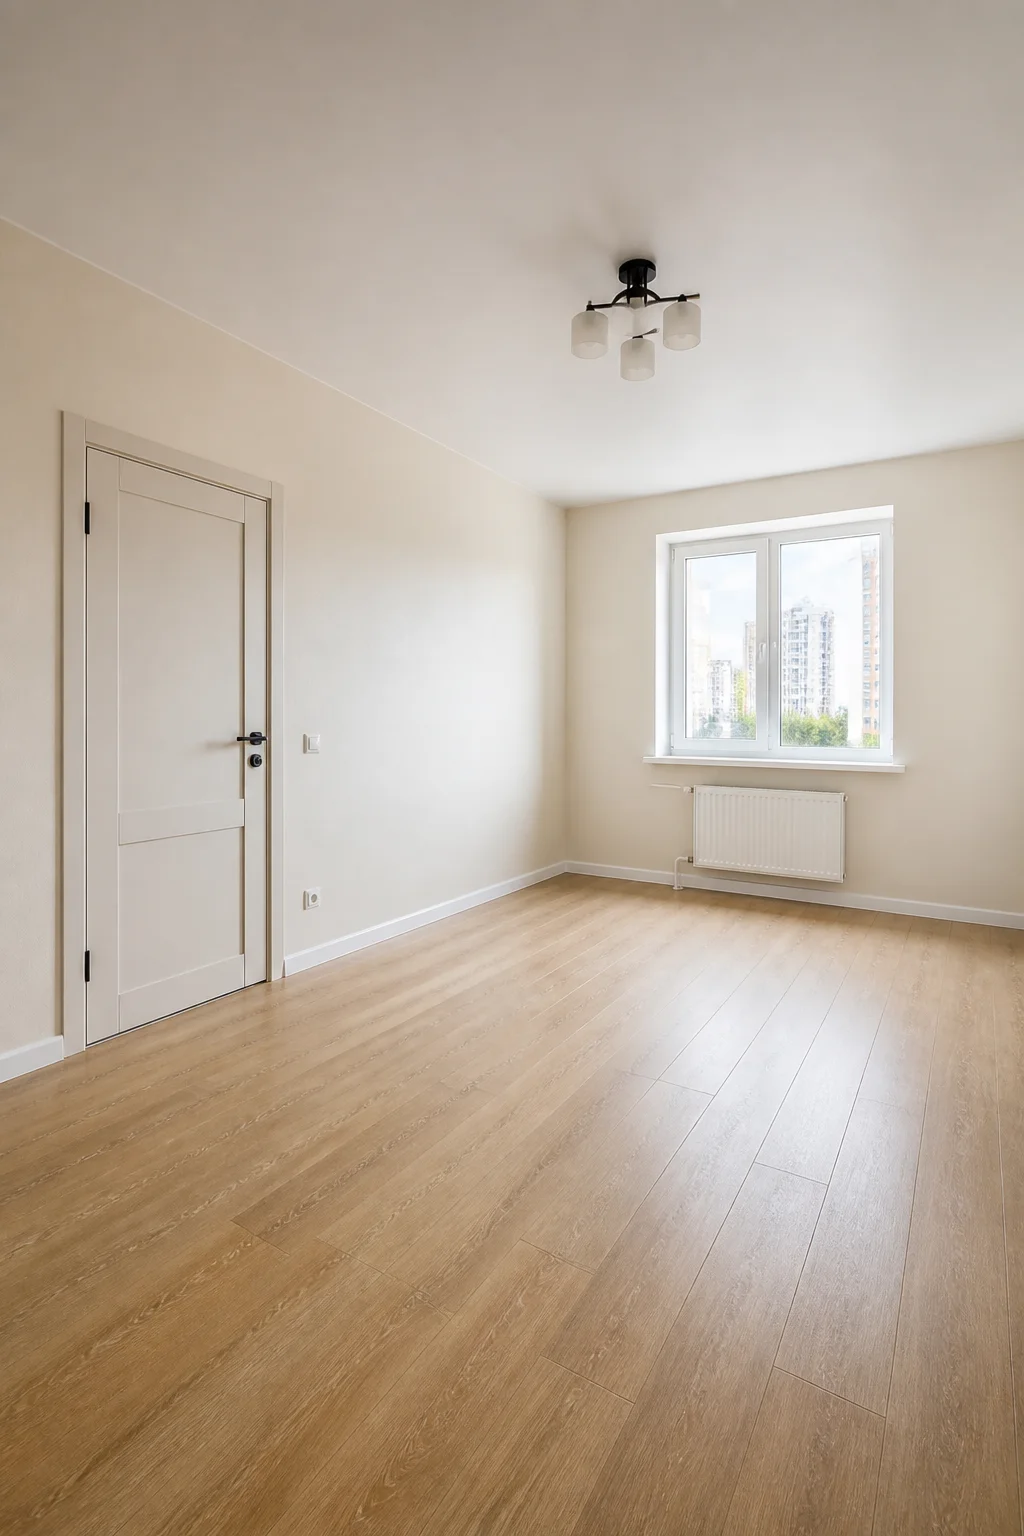
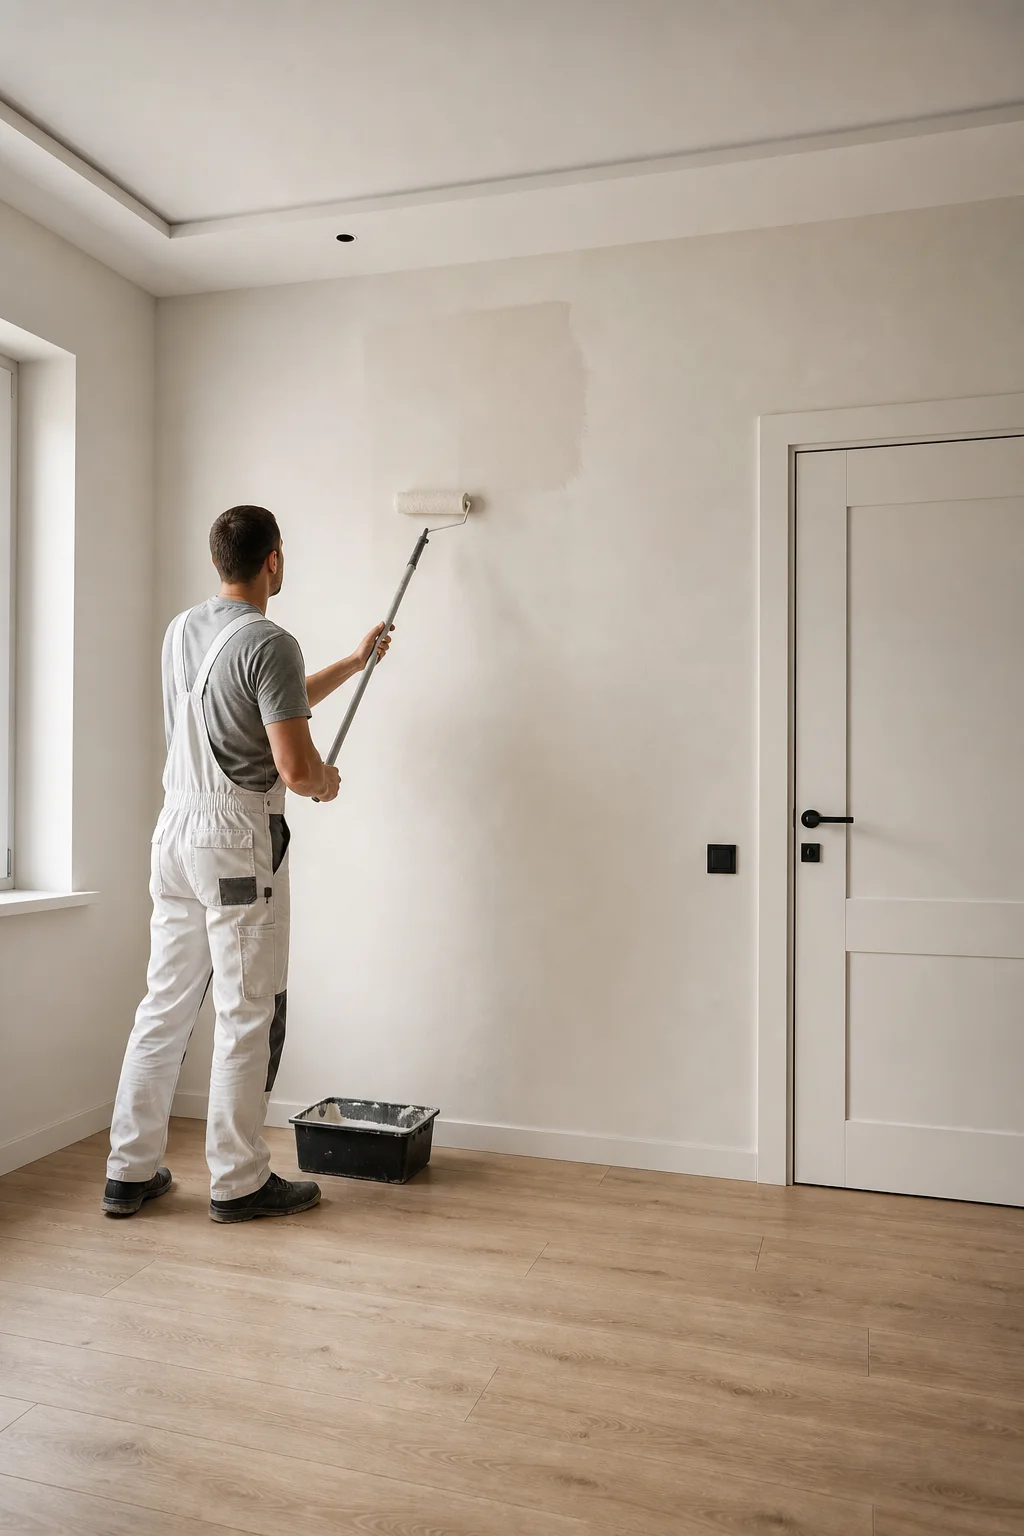
Polish v26 tariff copy and renovation visuals

diff --git a/v26/index.html b/v26/index.html
@@ -46,7 +46,7 @@
     <link rel="preload" as="font" href="../assets/fonts/onest-cyrillic.woff2" type="font/woff2" crossorigin />
     <link rel="preload" as="font" href="../assets/fonts/onest-latin.woff2" type="font/woff2" crossorigin />
     <link rel="preload" as="image" href="../v14/assets/web/vk-hero.webp" type="image/webp" fetchpriority="high" />
-    <link rel="stylesheet" href="styles.css?v=20260724-26b" />
+    <link rel="stylesheet" href="styles.css?v=20260724-26c" />
     <script type="application/ld+json">
       {
         "@context": "https://schema.org",
@@ -204,7 +204,6 @@
         <div class="section-head">
           <div>
             <h2>Выбери, каким будет ремонт</h2>
-            <p>Во всех вариантах уже есть и работы, и материалы. Разница - в задаче и уровне комплектации.</p>
           </div>
         </div>
         <div class="tariff-grid tariff-grid--four">
@@ -212,18 +211,17 @@
             <span class="tariff-card__badge tariff-card__badge--cosmetic">Косметический</span>
             <figure class="tariff-card__visual">
               <img src="../assets/tariffs/finish-cosmetic.webp" alt="Квартира после косметического ремонта" width="1024" height="1536" loading="lazy" decoding="async" />
-              <span class="tariff-card__included">Работы<br />+ материалы</span>
-              <figcaption>Чистые стены, пол и свет</figcaption>
+              <span class="tariff-card__included"><small>В стоимость уже входят</small><strong>Работы + материалы</strong></span>
               <span class="photo-watermark" aria-hidden="true">ВЕРХ</span>
             </figure>
             <div class="tariff-card__body">
               <h3>Косметический</h3>
               <strong>от 6 000 ₽/м²</strong>
-              <p class="tariff-card__composition">Быстро привести квартиру в порядок</p>
+              <p class="tariff-card__composition">Хочешь освежить квартиру без большого ремонта.</p>
               <ul class="tariff-card__list">
-                <li>покраска, обои, пол и нужные работы;</li>
-                <li>материалы под согласованный объём;</li>
-                <li>смета и понятный план после осмотра.</li>
+                <li>Покрасим стены, обновим обои и пол.</li>
+                <li>Подберём материалы под твой объём.</li>
+                <li>После осмотра покажем точный состав и цену.</li>
               </ul>
               <button class="tariff-card__action" type="button" data-tariff-open="cosmetic">Рассчитать косметический</button>
             </div>
@@ -232,18 +230,17 @@
             <span class="tariff-card__badge tariff-card__badge--base">Под ключ</span>
             <figure class="tariff-card__visual">
               <img src="../assets/tariffs/finish-standard.webp" alt="Визуальный ориентир ремонта уровня Стандарт" width="1024" height="1536" loading="lazy" decoding="async" />
-              <span class="tariff-card__included">Работы<br />+ материалы</span>
-              <figcaption>Для заезда или сдачи</figcaption>
+              <span class="tariff-card__included"><small>В стоимость уже входят</small><strong>Работы + материалы</strong></span>
               <span class="photo-watermark" aria-hidden="true">ВЕРХ</span>
             </figure>
             <div class="tariff-card__body">
               <h3>Стандарт</h3>
               <strong>20 000 ₽/м²</strong>
-              <p class="tariff-card__composition">Готовый ремонт для заезда или сдачи</p>
+              <p class="tariff-card__composition">Сделаем квартиру готовой к заезду или сдаче.</p>
               <ul class="tariff-card__list">
-                <li>работы и материалы для ремонта под ключ;</li>
-                <li>подготовка, плитка, пол, стены, двери и потолки;</li>
-                <li>базовая сантехника и свет.</li>
+                <li>Соберём все работы и материалы под ключ.</li>
+                <li>Сделаем подготовку, плитку, пол, стены, двери и потолки.</li>
+                <li>Поставим базовую сантехнику и свет.</li>
               </ul>
               <button class="tariff-card__action" type="button" data-tariff-open="standard">Выбрать Стандарт</button>
             </div>
@@ -252,22 +249,20 @@
             <span class="tariff-card__badge tariff-card__badge--popular">Чаще выбирают</span>
             <figure class="tariff-card__visual">
               <img src="../assets/tariffs/finish-comfort-aircon.webp" alt="Ремонт уровня Комфорт с настенным кондиционером в готовой квартире" width="1007" height="1562" loading="lazy" decoding="async" />
-              <span class="tariff-card__included">Работы<br />+ материалы</span>
+              <span class="tariff-card__included"><small>В стоимость уже входят</small><strong>Работы + материалы</strong></span>
               <span class="tariff-card__promo" aria-label="Акция: кондиционер в подарок">
                 <strong>Кондиционер<br />в подарок</strong>
               </span>
-              <figcaption>Комфорт для жизни</figcaption>
               <span class="photo-watermark" aria-hidden="true">ВЕРХ</span>
             </figure>
             <div class="tariff-card__body">
               <h3>Комфорт</h3>
               <strong>25 000 ₽/м²</strong>
-              <p class="tariff-card__composition">Больше деталей для комфортной жизни</p>
+              <p class="tariff-card__composition">Соберём удобную квартиру для жизни.</p>
               <ul class="tariff-card__list">
-                <li>работы и материалы для ремонта под ключ;</li>
-                <li>крупноформатная плитка, ламинат 33 класса и моющиеся обои;</li>
-                <li>двери, сантехника, свет и карнизы;</li>
-                <li>дополнительная электрика, ниши и потолки.</li>
+                <li>Подберём материалы и выполним все работы под ключ.</li>
+                <li>Сделаем плитку, пол, стены, двери, сантехнику, свет и карнизы.</li>
+                <li>Добавим электрику, ниши и потолки для удобства.</li>
                 <li class="tariff-card__offer"><strong>Кондиционер в подарок</strong> при заказе ремонта от 50 м².</li>
               </ul>
               <button class="tariff-card__action" type="button" data-tariff-open="comfort">Выбрать Комфорт</button>
@@ -277,18 +272,17 @@
             <span class="tariff-card__badge tariff-card__badge--bonus">Дизайн в подарок</span>
             <figure class="tariff-card__visual">
               <img src="../assets/tariffs/finish-lux.webp" alt="Визуальный ориентир ремонта уровня Люкс" width="985" height="1597" loading="lazy" decoding="async" />
-              <span class="tariff-card__included">Работы<br />+ материалы</span>
-              <figcaption>Ремонт под твой проект</figcaption>
+              <span class="tariff-card__included"><small>В стоимость уже входят</small><strong>Работы + материалы</strong></span>
               <span class="photo-watermark" aria-hidden="true">ВЕРХ</span>
             </figure>
             <div class="tariff-card__body">
               <h3>Люкс</h3>
               <strong>от 29 000 ₽/м²</strong>
-              <p class="tariff-card__composition">Ремонт под твой проект и привычки</p>
+              <p class="tariff-card__composition">Сделаем ремонт под твой проект и привычки.</p>
               <ul class="tariff-card__list">
-                <li>работы и материалы по согласованному проекту;</li>
-                <li>комплектация под нужный тебе результат;</li>
-                <li>сложные узлы и световые сценарии.</li>
+                <li>Соберём работы и материалы по согласованному проекту.</li>
+                <li>Подберём комплектацию под твой результат.</li>
+                <li>Сделаем сложные узлы и световые сценарии.</li>
               </ul>
               <button class="tariff-card__action" type="button" data-tariff-open="lux">Выбрать Люкс</button>
             </div>
@@ -299,29 +293,28 @@
       <section class="materials section" id="materials">
         <div class="section-head materials__head">
           <div>
-            <h2>Выберем материалы под твою квартиру</h2>
-            <p>Не нужно самому объезжать магазины. Покажем варианты для пола, стен и санузла - ты выберешь то, что нравится.</p>
+            <h2>Материалы подберём вместе</h2>
           </div>
-          <button class="section-link" type="button" data-quiz-open>Подобрать ремонт</button>
+          <button class="tariff-card__action materials__action" type="button" data-quiz-open>Рассчитать ремонт</button>
         </div>
         <div class="materials-grid">
           <article class="material-card">
             <img src="../assets/materials/tile-selection.webp" alt="Выбор плитки и керамогранита" width="1448" height="1086" loading="lazy" decoding="async" />
-            <div><strong>Плитка</strong><span>Формат и фактура для санузла, кухни и прихожей.</span></div>
+            <div><strong>Плитка</strong><span>Покажем варианты для ванной, кухни и прихожей.</span></div>
           </article>
           <article class="material-card">
             <img src="../assets/materials/floor-selection.webp" alt="Выбор напольного покрытия" width="1448" height="1086" loading="lazy" decoding="async" />
-            <div><strong>Пол</strong><span>Подберём оттенок и покрытие под твой образ жизни.</span></div>
+            <div><strong>Пол</strong><span>Выберем покрытие, которое подойдёт твоей квартире.</span></div>
           </article>
           <article class="material-card">
             <img src="../assets/materials/wall-selection.webp" alt="Выбор обоев и отделки стен" width="1448" height="1086" loading="lazy" decoding="async" />
-            <div><strong>Стены</strong><span>Краска, обои и фактуры, которые будут смотреться вместе.</span></div>
+            <div><strong>Стены</strong><span>Поможем собрать цвет, обои и фактуру в один интерьер.</span></div>
           </article>
         </div>
         <div class="materials-note">
-          <span>Во всех тарифах</span>
-          <strong>Работы + материалы уже в цене</strong>
-          <p>После замера закрепим состав работ и стоимость в договоре.</p>
+          <span>Уже в стоимости</span>
+          <strong>Работы и материалы входят в цену</strong>
+          <p>После замера назовём точную сумму и закрепим её в договоре.</p>
         </div>
       </section>
 
@@ -521,8 +514,8 @@
 
             <article class="slide" data-step="2">
               <div class="slide-head">
-                <h2>Какой нужен результат?</h2>
-                <p>Выбери косметическое обновление или уровень ремонта квартиры под ключ.</p>
+                <h2>Какой результат хочешь?</h2>
+                <p>Выбери вариант, а дальше покажем, что уже входит в стоимость.</p>
               </div>
               <div class="level-choice-grid level-choice-grid--four">
                 <button class="level-choice" type="button" data-level="cosmetic">
@@ -531,7 +524,7 @@
                   <span><strong>Косметический</strong><small>работы + материалы · от 6 000 ₽/м²</small></span>
                 </button>
                 <button class="level-choice" type="button" data-level="standard">
-                  <img data-quiz-media data-src="../v14/assets/web/standard_01_msg184.webp" alt="Ремонт уровня Стандарт" decoding="async" />
+                  <img data-quiz-media data-src="../assets/tariffs/finish-standard.webp" alt="Ремонт уровня Стандарт" decoding="async" />
                   <span class="photo-watermark" aria-hidden="true">ВЕРХ</span>
                   <span><strong>Стандарт</strong><small>работы + материалы · 20 000 ₽/м²</small></span>
                 </button>

diff --git a/v26/styles.css b/v26/styles.css
@@ -4493,19 +4493,32 @@ html.has-js .process-cta {
   top: 14px;
   right: 14px;
   z-index: 3;
-  display: inline-flex;
-  align-items: center;
-  min-height: 32px;
-  border: 1px solid rgba(240, 198, 109, 0.68);
+  display: grid;
+  min-width: 154px;
+  gap: 3px;
+  border: 1px solid rgba(240, 198, 109, 0.82);
   border-radius: 5px;
-  background: rgba(7, 7, 7, 0.8);
+  background: rgba(9, 9, 8, 0.9);
   color: #ffe6a5;
-  padding: 6px 8px;
-  font-size: 9px;
-  font-weight: 750;
-  line-height: 1.08;
+  padding: 9px 10px 10px;
+  line-height: 1.05;
   text-align: right;
+}
+
+.tariff-card__included small {
+  color: rgba(255, 248, 234, 0.72);
+  font-size: 8px;
+  font-weight: 700;
+  letter-spacing: 0;
+  line-height: 1.1;
   text-transform: uppercase;
+}
+
+.tariff-card__included strong {
+  color: #fff0c6;
+  font-size: 13px;
+  font-weight: 800;
+  line-height: 1.05;
 }
 
 .tariff-card__badge--cosmetic {
@@ -4520,12 +4533,16 @@ html.has-js .process-cta {
   bottom: 14px;
 }
 
-.tariff-card__visual figcaption {
-  right: 66px;
+.tariff-card--cosmetic .tariff-card__visual img {
+  object-position: center 56%;
+}
+
+.tariff-card--base .tariff-card__visual img {
+  object-position: center 58%;
 }
 
 .tariff-card--featured .tariff-card__promo {
-  top: 58px;
+  top: 82px;
   max-width: calc(100% - 28px);
   font-size: 14px;
 }
@@ -4540,6 +4557,9 @@ html.has-js .process-cta {
 
 .materials__head {
   display: flex;
+  align-items: flex-end;
+  justify-content: space-between;
+  gap: 24px;
   max-width: 1180px;
   margin: 0 auto 24px;
 }
@@ -4548,8 +4568,11 @@ html.has-js .process-cta {
   max-width: 720px;
 }
 
-.materials .section-link {
-  align-self: end;
+.materials .materials__action {
+  width: auto;
+  min-width: 190px;
+  margin: 0;
+  white-space: nowrap;
 }
 
 .materials .materials-grid {
@@ -4651,7 +4674,11 @@ html.has-js .process-cta {
 }
 
 .level-choice[data-level="cosmetic"] img {
-  object-position: center 62%;
+  object-position: center 56%;
+}
+
+.level-choice[data-level="standard"] img {
+  object-position: center 58%;
 }
 
 @media (max-width: 1180px) {
@@ -4672,9 +4699,17 @@ html.has-js .process-cta {
   .tariff-card__included {
     top: 12px;
     right: 12px;
-    min-height: 30px;
-    padding: 5px 7px;
-    font-size: 8px;
+    min-width: 142px;
+    gap: 2px;
+    padding: 7px 8px 8px;
+  }
+
+  .tariff-card__included small {
+    font-size: 7px;
+  }
+
+  .tariff-card__included strong {
+    font-size: 11px;
   }
 
   .tariff-card__visual > .photo-watermark {
@@ -4682,14 +4717,8 @@ html.has-js .process-cta {
     bottom: 12px;
   }
 
-  .tariff-card__visual figcaption {
-    right: 60px;
-    bottom: 12px;
-    left: 12px;
-  }
-
   .tariff-card--featured .tariff-card__promo {
-    top: 52px;
+    top: 70px;
     left: 12px;
   }
 
@@ -4704,8 +4733,9 @@ html.has-js .process-cta {
     margin-bottom: 18px;
   }
 
-  .materials .section-link {
-    align-self: start;
+  .materials .materials__action {
+    width: 100%;
+    min-width: 0;
   }
 
   .materials .materials-grid {
